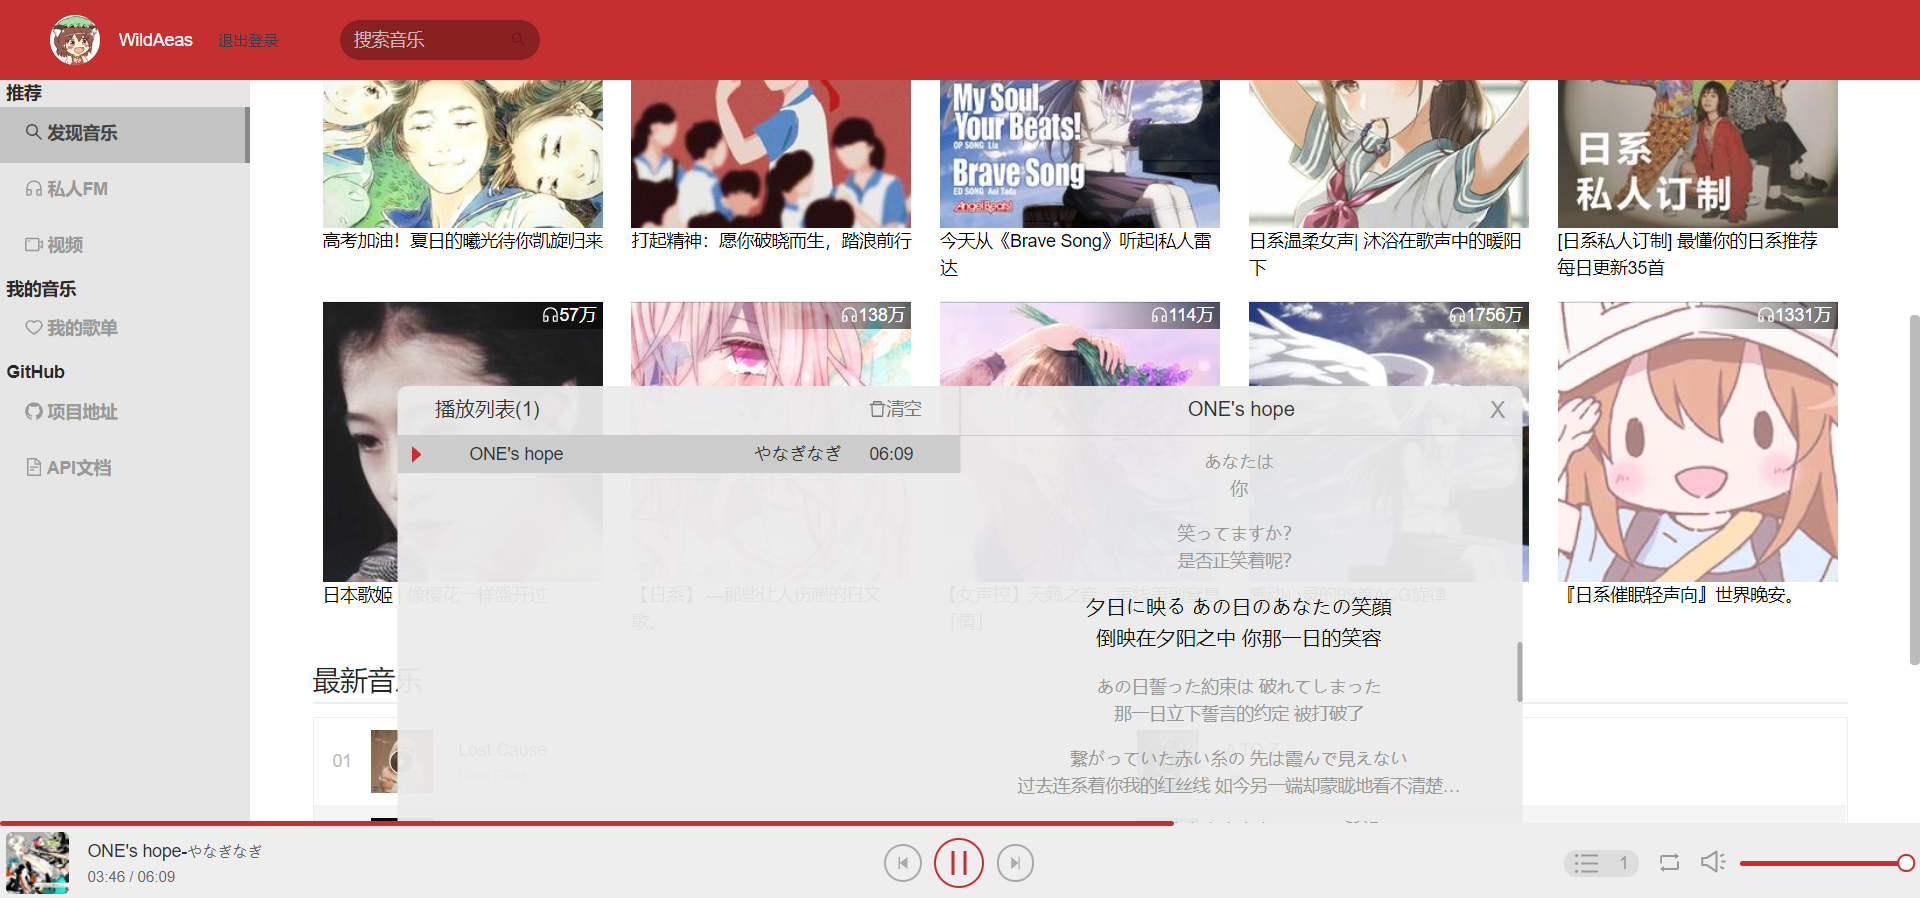
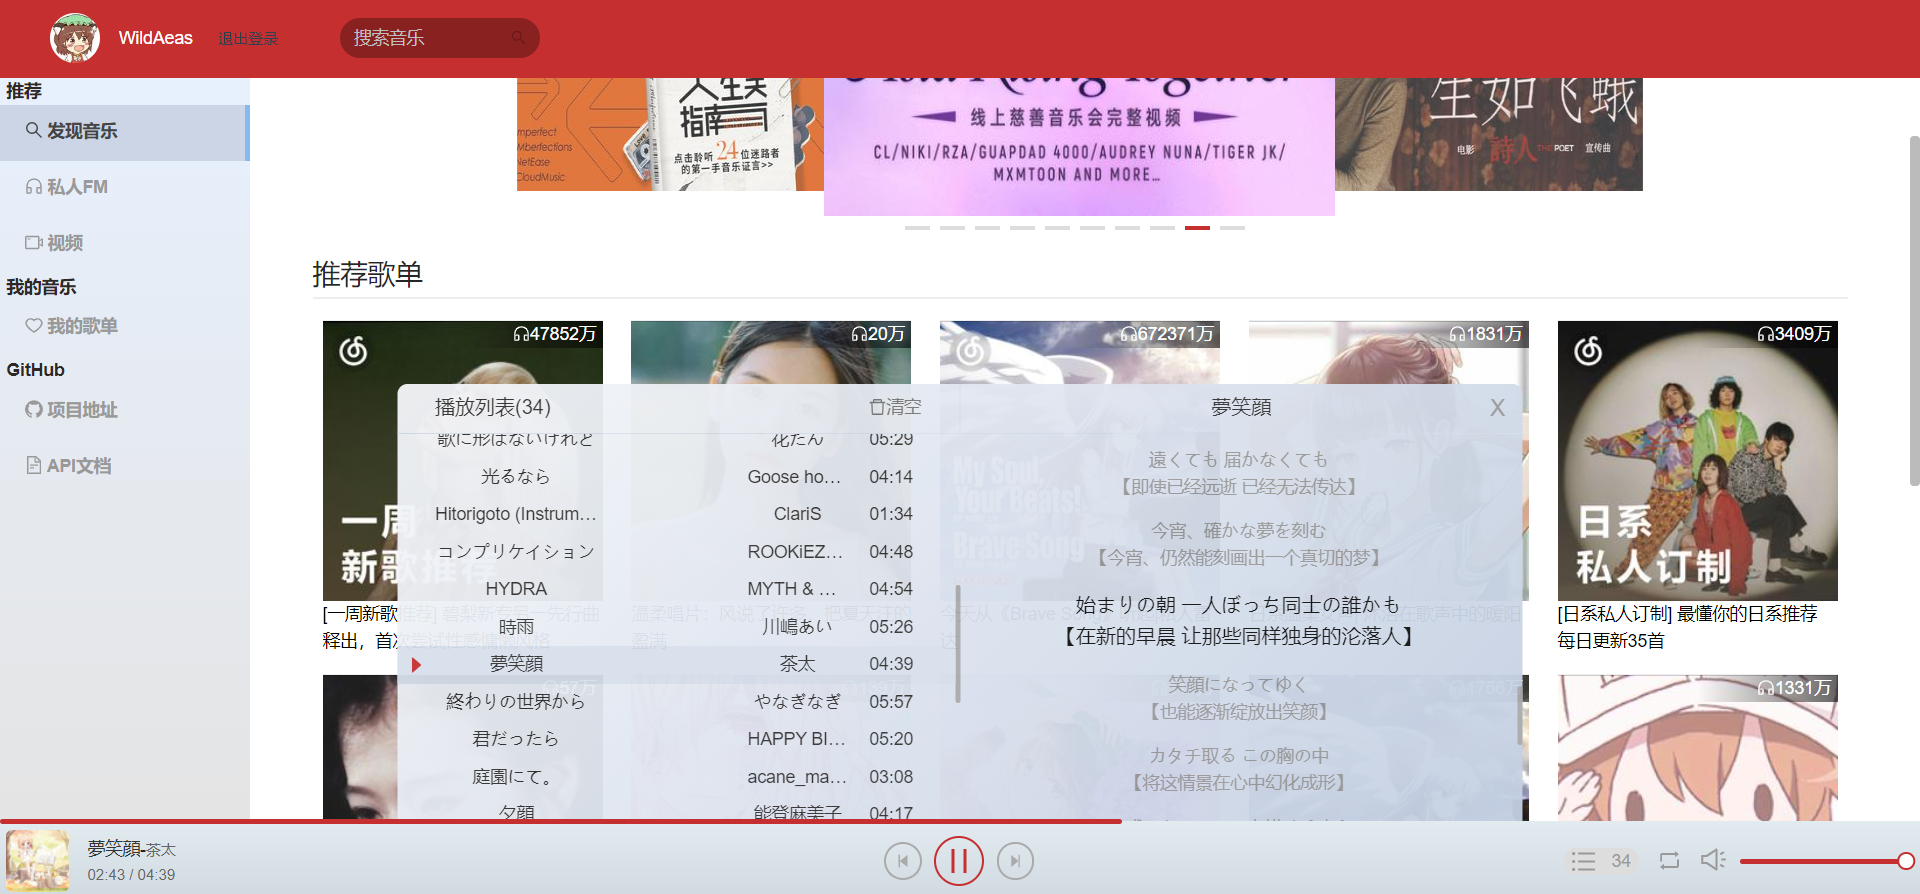
pref: change main theme

diff --git a/src/components/MusicPlayer/OtherButton/Playlist/index.module.scss b/src/components/MusicPlayer/OtherButton/Playlist/index.module.scss
@@ -33,7 +33,8 @@
         width: 900px;
         left: 50%;
         transform: translateX(-50%);
-        background-color: rgba(235, 235, 235, 0.95);
+        background-image: linear-gradient(135deg, #f5f7fa, #c3cfe2);
+        opacity: 0.95;
         display: none;
         z-index: 1000;
         border-radius: 8px 8px 0 0;
@@ -50,7 +51,7 @@
         height: 40px;
         display: flex;
         align-items: center;
-        border-bottom: 1px solid #ccc;
+        border-bottom: 1px solid #d6dfeb;
     }
 
     .clean {
@@ -63,7 +64,7 @@
     }
 
     .list-left > .title {
-        border-right: 1px solid #ccc;
+        border-right: 1px solid #d6dfeb;
         padding: 0 30px;
         justify-content: space-between;
     }
@@ -113,7 +114,7 @@
         cursor: pointer;
         color: #333;
         &:hover {
-            background-color: #ccc;
+            background-color: #d6dfeb;
             .icons {
                 opacity: 1;
             }

diff --git a/src/components/Sidebar/index.module.scss b/src/components/Sidebar/index.module.scss
@@ -3,7 +3,7 @@
   width: 200px;
   overflow: hidden;
   white-space: nowrap;
-  background-color: #e6e6e6;
+  background-image: linear-gradient(to top, #e4e4e4, #e7f0fd);
   transition: all 1s;
   .category {
     color: #2d2727;
@@ -20,13 +20,13 @@
     padding: 10px 20px;
 
     &:hover {
-      background-color: #c3c3c3;
+      background-color: #cbd5e6;
       color: #444;
     }
   }
 
   .active {
-    background-color: #c3c3c3;
+    background-color: #cbd5e6;
     color: #444;
     position: relative;
 
@@ -36,7 +36,7 @@
       top: 0;
       width: 4px;
       height: 100%;
-      background-color: #888;
+      background-color: #84baf0;
       content: "";
     }
   }
@@ -64,7 +64,7 @@
   height: 40px;
   width: 24px;
   border-radius: 0 12px 12px 0;
-  background-color: #e6e6e6;
+  background-color: #f0f0f0;
   top: 12px;
   left: 200px;
   cursor: pointer;

diff --git a/src/components/MusicPlayer/index.module.scss b/src/components/MusicPlayer/index.module.scss
@@ -1,6 +1,6 @@
 .music-player {
     height: 100%;
-    background-color: #eee;
+    background-image: linear-gradient(to top, #cfd9df, #e2ebf0);
     display: flex;
     padding: 5px;
     position: relative;

diff --git a/src/components/MusicPlayer/OtherButton/Playlist/reset.scss b/src/components/MusicPlayer/OtherButton/Playlist/reset.scss
@@ -1,5 +1,5 @@
 .playing {
-    background-color: #ccc;
+    background-color: #d6dfeb;
     & > .anticon {
         color: #c62f2f;
         font-size: 18px;
